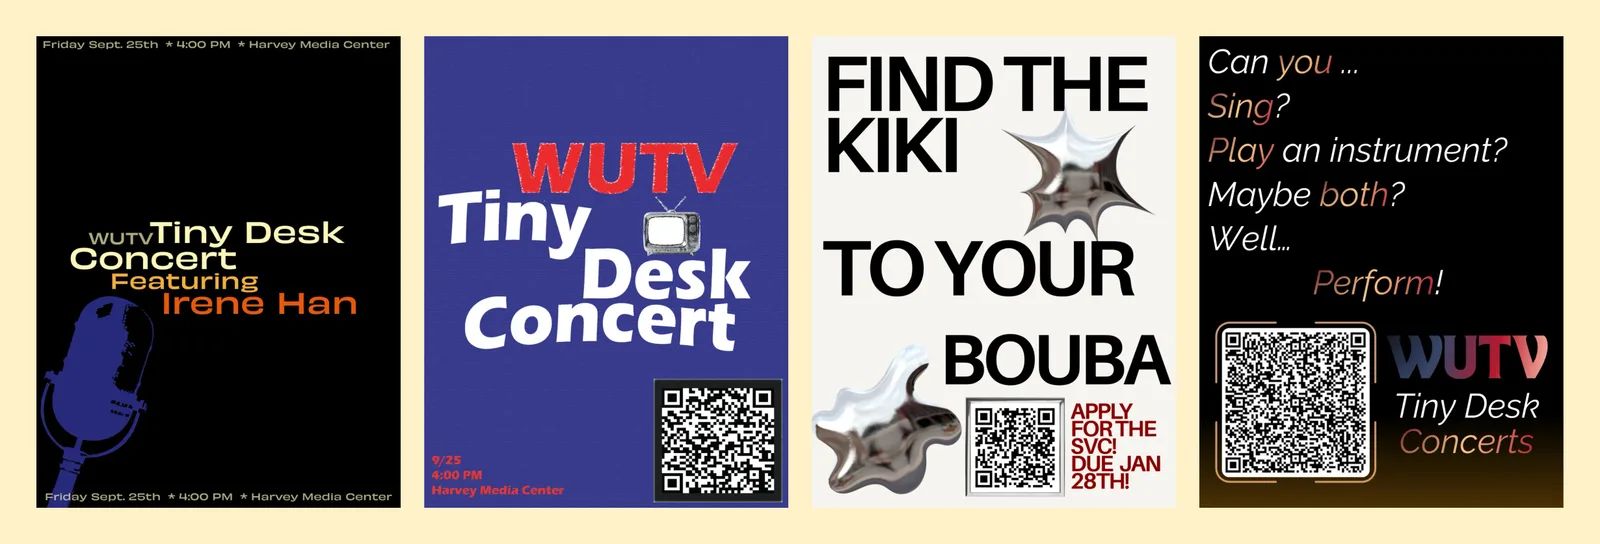
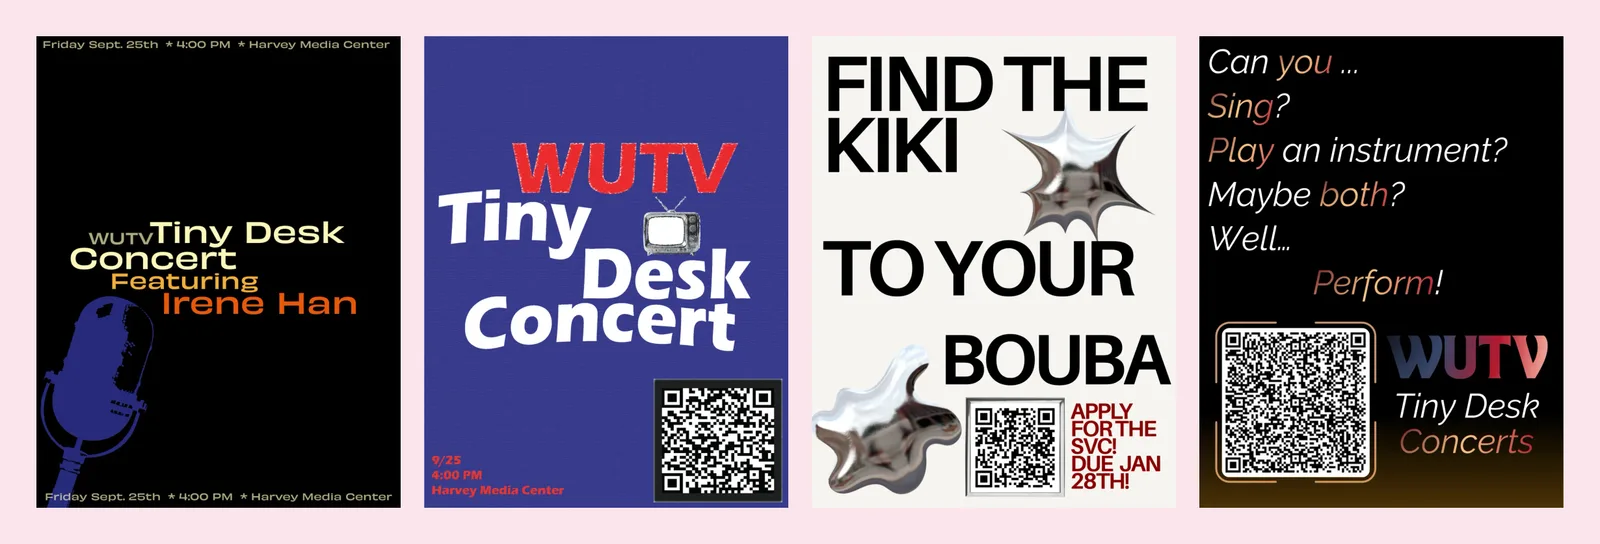
Fold JDel into the Playground page as its own section; remove the JDel page
Also recolor Design + Social preview images to blush pink.

Claude-Session: https://claude.ai/code/session_01QABMPkv77dtRfyRbPioX79

Changed region(s): [[0.0, 0.0, 1.0, 1.0]]

diff --git a/src/data/search.ts b/src/data/search.ts
@@ -57,7 +57,7 @@ const answers: Entry[] = [
   },
   {
     title: 'Beauty + fashion',
-    href: '/playground/jdel',
+    href: '/playground#jdel',
     group: 'Quick answers',
     keywords: 'beauty fashion fragrance perfume cosmetics textiles print style',
     answer: 'JDel is my fragrance brand concept. Textiles covers my print design and a bodice mockup.',

diff --git a/src/data/projects.ts b/src/data/projects.ts
@@ -101,7 +101,7 @@ export const items: Item[] = [
   },
   {
     slug: 'jdel',
-    href: '/playground/jdel',
+    href: '/playground#jdel',
     title: 'JDel Fragrance',
     short: 'JDel',
     kind: 'Playground',
